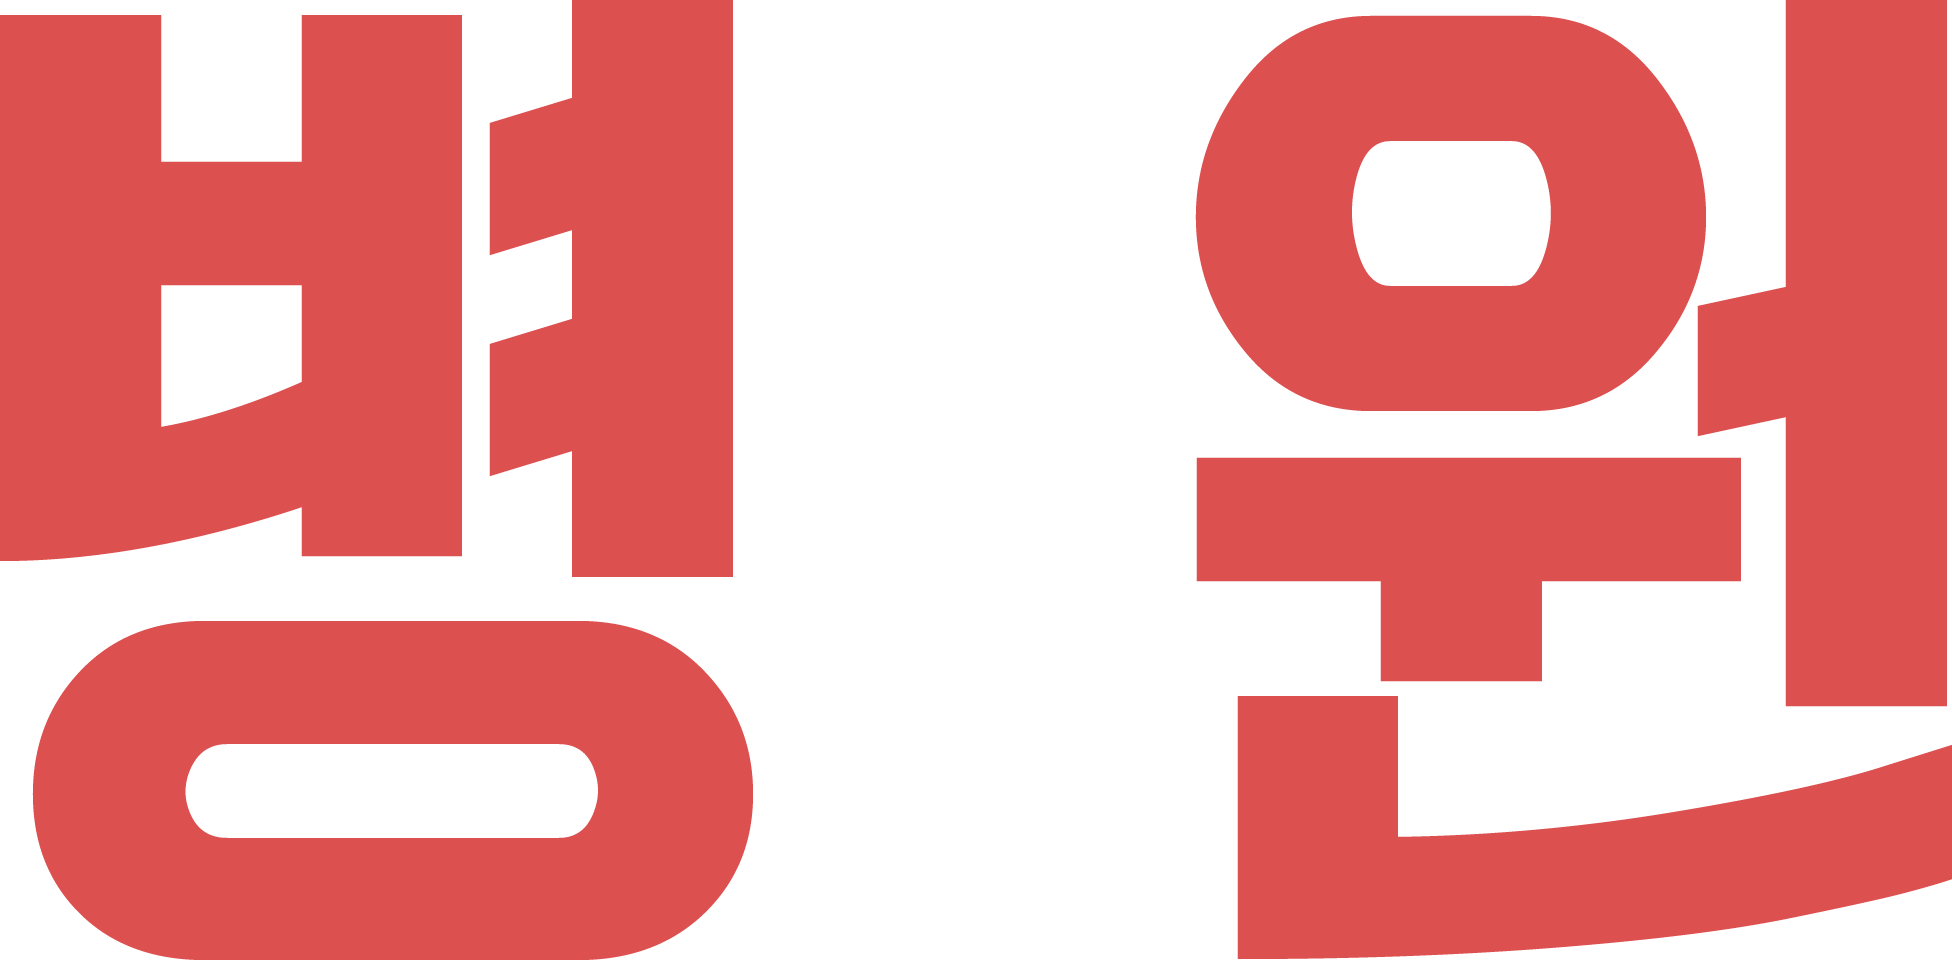
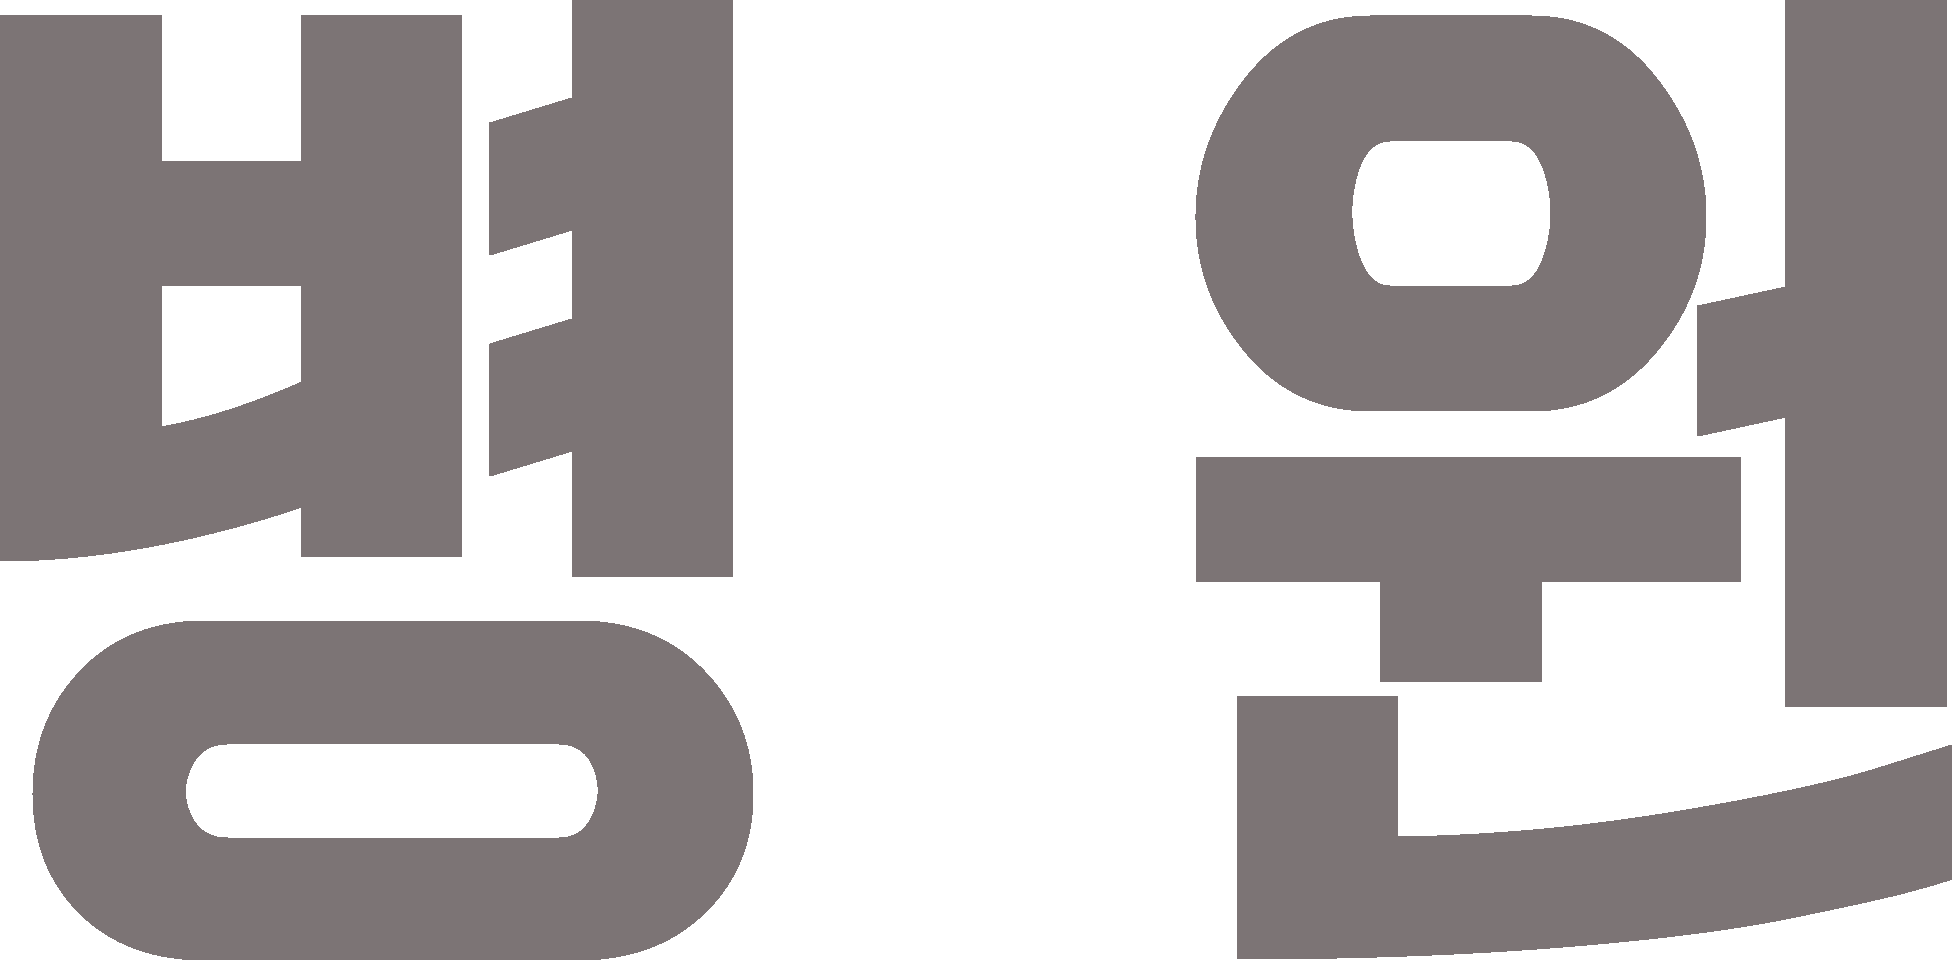
alll55

diff --git a/yodde/src/main/webapp/resources/css/main/main.css b/yodde/src/main/webapp/resources/css/main/main.css
@@ -61,7 +61,7 @@ ol, ul {
 }
 
 .search_bar {
-	padding: 60px 0px 5px 26%;
+	padding: 110px 0px 5px 26%;
 	background-color: #FFFFFF;
 	display: inline-block;
 	width: 80%;
@@ -70,8 +70,8 @@ ol, ul {
 .input_text {
 	width: 95%;
 	height: 25px;
-	border: solid 7px #F38983;
-	font-size: 25px;
+	border: solid 2px #EA9494;
+	font-size: 15px;
 	text-transform: uppercase;
 	font-family: 'Nanum Gothic', '맑은 고딕', Helvetica;
 	font-weight: bold;
@@ -115,12 +115,14 @@ ol, ul {
 .store_box_title {
 	z-index: 100;
 	opacity: 1;
+	margin: auto;
+	max-width: 883px
 }
 
 .stores {
 	height: 270px;
 	padding: 2px 2px 2px 20px;
-	background-color: #fafafa;
+	background-color: #D7D2D2;
 	min-width: 883px;
 }
 
@@ -312,7 +314,7 @@ resultStore -->.RS_content {
 
 .RS_title {
 	width: 926px;
-	height: 50px;
+	height: 30px;
 	margin-bottom: 10px;
 	padding: 10px 0px 0px 0px;
 	text-align: center;

diff --git a/yodde/src/main/webapp/resources/css/commons/common.css b/yodde/src/main/webapp/resources/css/commons/common.css
@@ -3,7 +3,7 @@
 
 body{
 	margin:0px 0px 0px 0px;
-	background-color:#F38983;
+	background-color:white;
 	font-family:'Nanum Gothic', '맑은 고딕', Helvetica;
 }
 A:link{text-decoration:none;}
@@ -13,12 +13,12 @@ A:hover{text-decoration:none;}
 .title_box{
 	width: 100%; 	height: 50px;
 	margin: 0px 0px 0px 0px;
-	padding: 7px 50px 0px 7px;
-	background-color: #F38983;
+	padding: 30px 50px 0px 7px;
+	background-color: white;
 	position: fixed;
 	z-index: 100;
 	min-width:1260px;
-	max-width: 1260px;
+	max-width: 1920px;
 }
 .title_left{
 	

diff --git a/yodde/src/main/webapp/resources/css/commons/category.css b/yodde/src/main/webapp/resources/css/commons/category.css
@@ -43,7 +43,7 @@ a:hover {
 
 /*헤더 색깔! */
 #header {
-	background-color: #F38983
+	background-color: white;
 }
 
 /* 탑 검은색 바! */
@@ -129,10 +129,10 @@ a {
 	background: transparent url(../../images/images/categoryBtn.png)
 		no-repeat;
 	background-size: 32px 28px !important;
-	background-color:#F38983;
+	background-color:white;
 	cursor: pointer;
 	position: absolute;
-	left: 10px;
+	left: 180px;
 	top: 50%;
 	margin-top: -16px;
 	-o-transition: .5s;

diff --git a/yodde/src/main/webapp/resources/css/main/demo.css b/yodde/src/main/webapp/resources/css/main/demo.css
@@ -10,7 +10,8 @@ html { height: 100%; }
 	-moz-box-sizing: border-box;
 	box-sizing: border-box;
 	padding: 0;
-	margin: 0;
+	margin: auto;
+	max-width: 883px;
 }
 
 .slide_title {						/*사진크기 관련*/
@@ -19,5 +20,6 @@ html { height: 100%; }
 	padding: 0 10px;
 	margin: 0 15px 0 15px;
 	position: relative;
+	max-width: 830px;
 }
 

diff --git a/yodde/src/main/webapp/resources/css/store/store.css b/yodde/src/main/webapp/resources/css/store/store.css
@@ -58,7 +58,7 @@ span.hint {
    padding-top:20px;
    float:right;
    background-color: white;
-   border:solid 2px #F38983;
+   border:solid 2px #C9C5C6;
 }
 .starrate{
    position:absolute;

diff --git a/yodde/src/main/webapp/resources/css/member/member.css b/yodde/src/main/webapp/resources/css/member/member.css
@@ -52,7 +52,7 @@ p{
 	font-weight:bold;
 }
 .join_input_half{
-	width:55px; height:25px;
+	width:81px; height:25px;
 	margin:0px 0px 0px 0px;
 
 	border:none;
